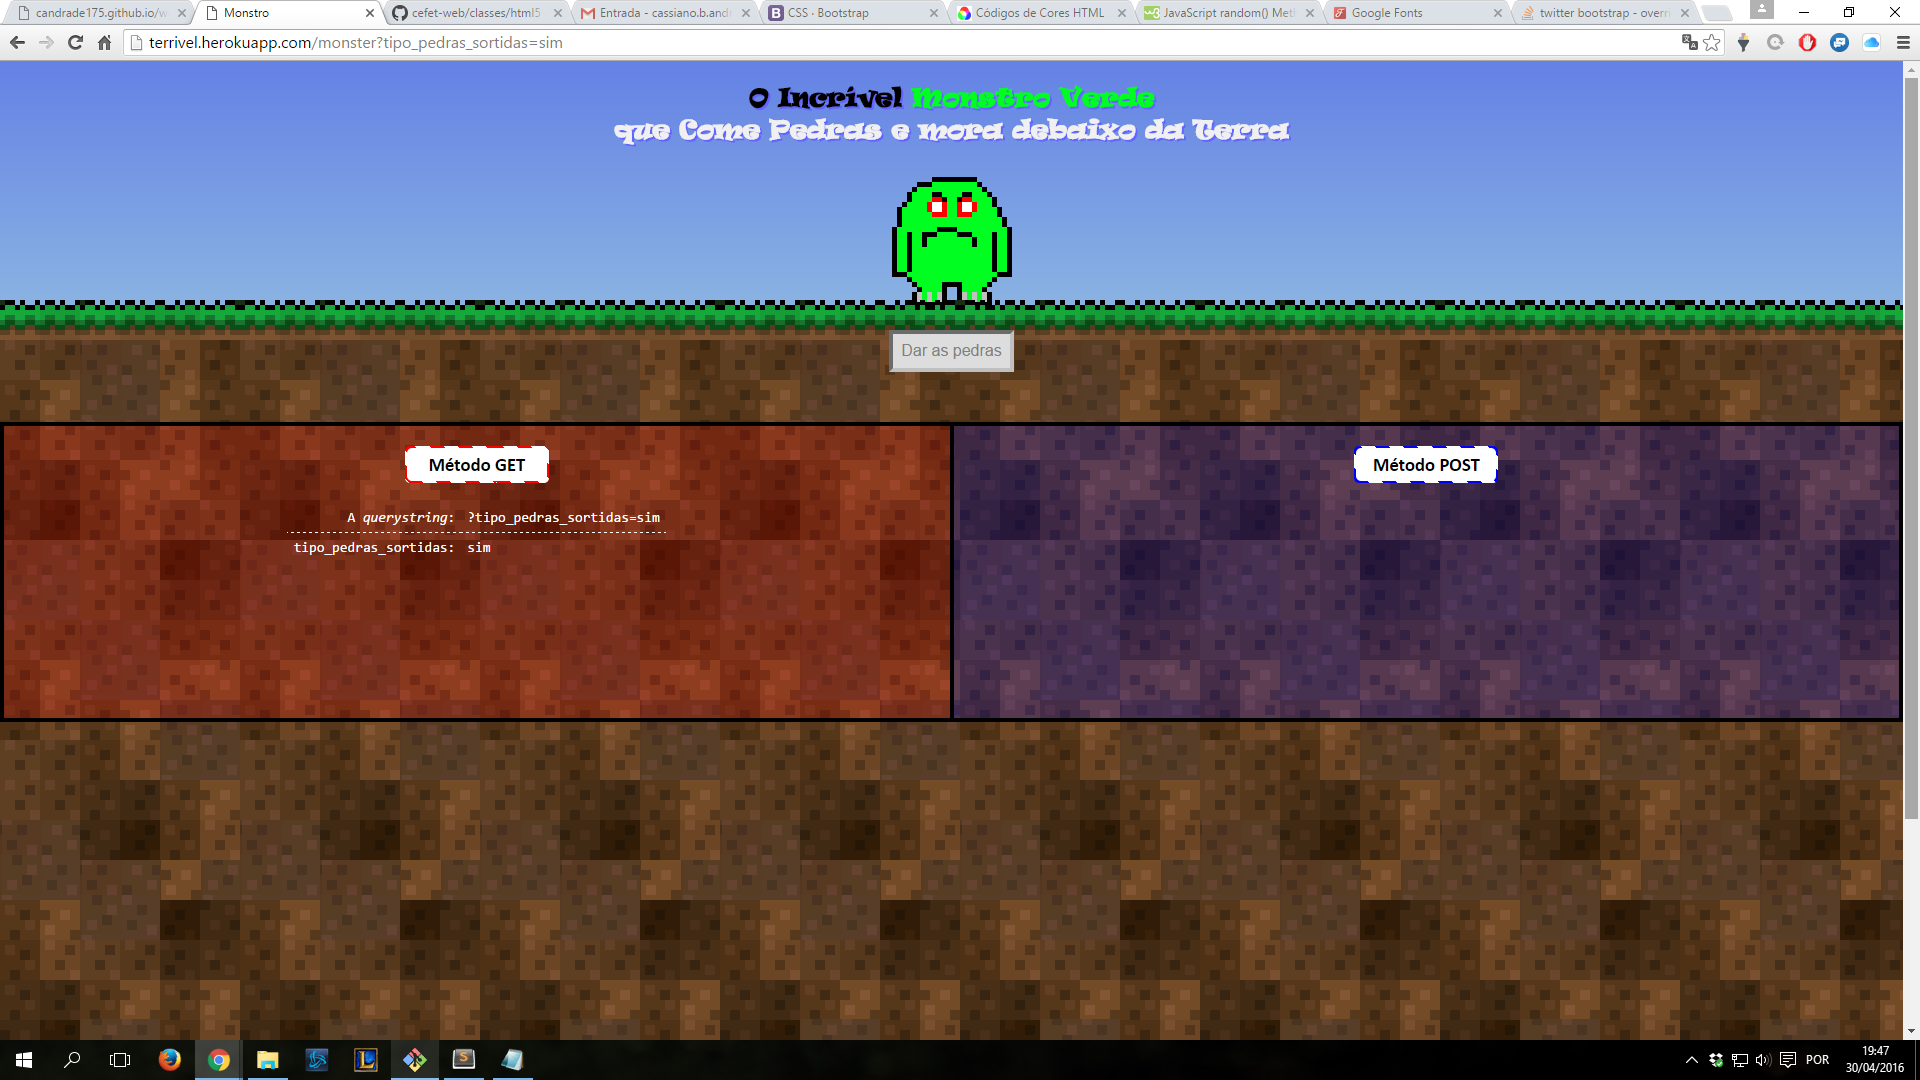
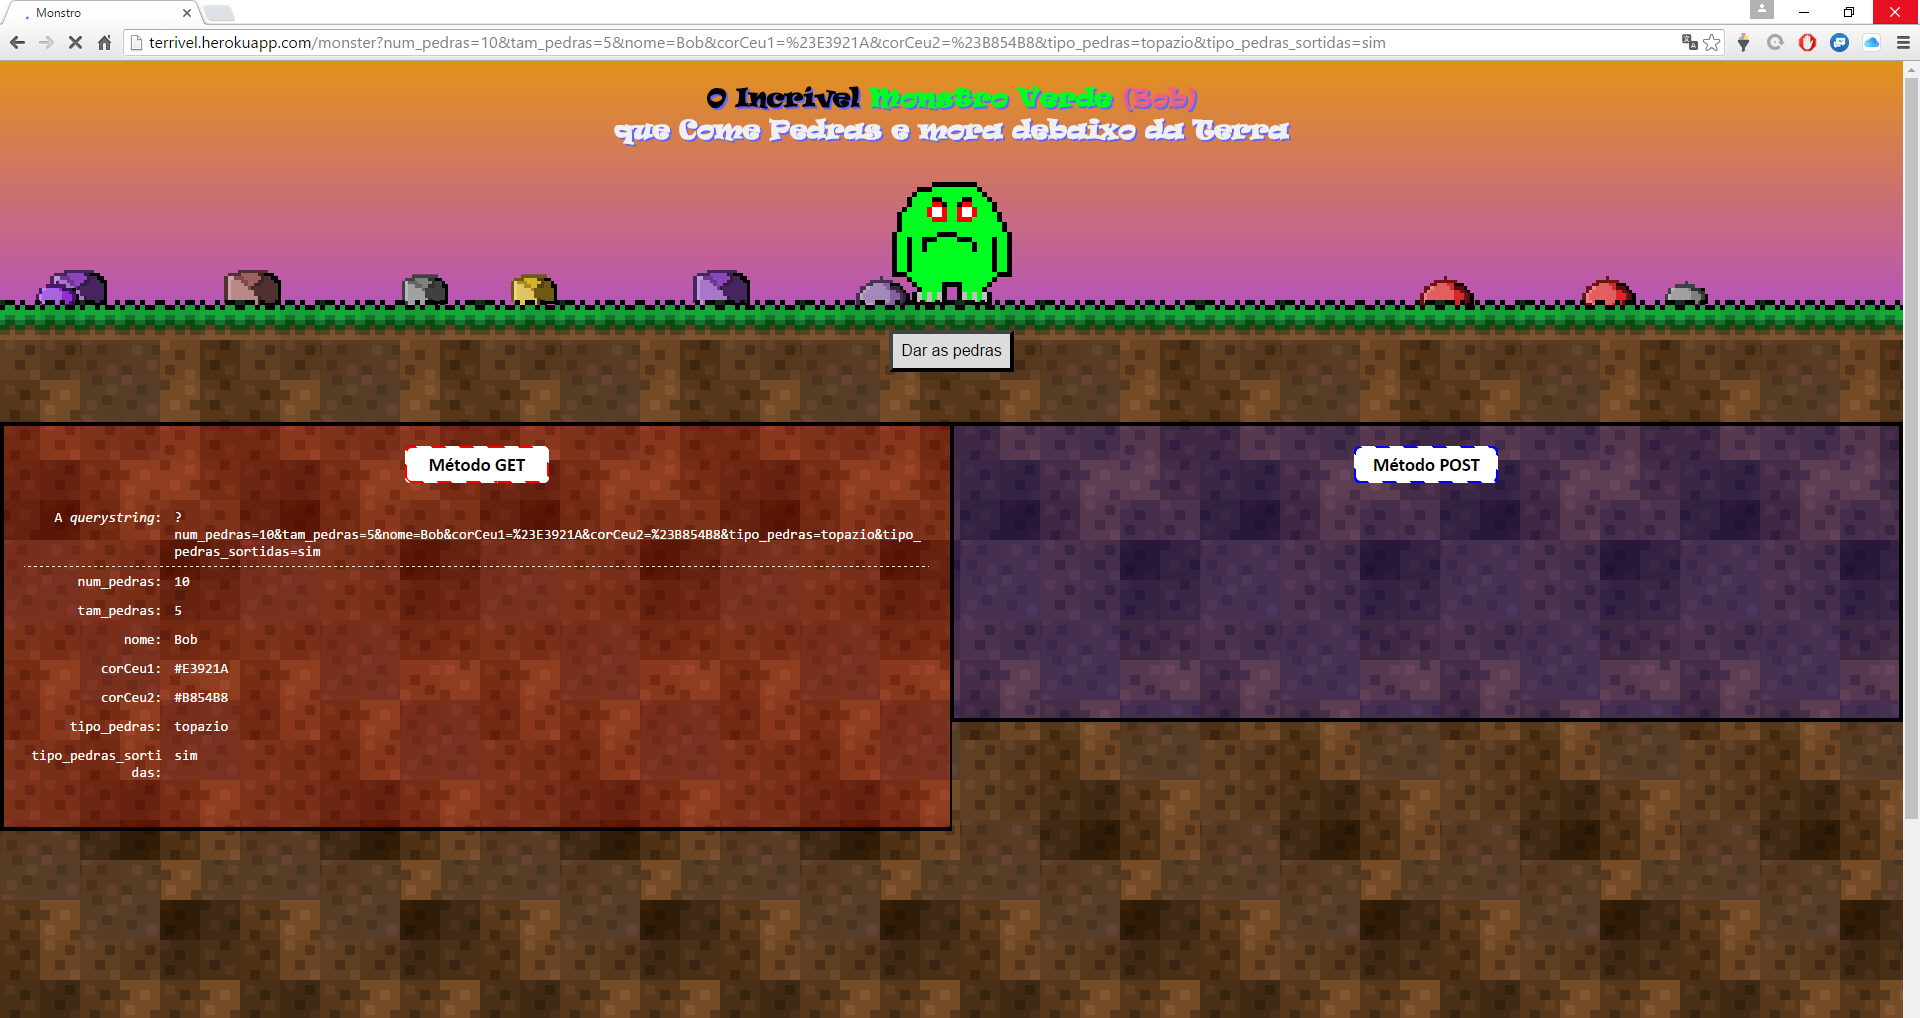
Consertando erro da cláusula "name"

diff --git a/www/templates/home/home.html b/www/templates/home/home.html
@@ -38,9 +38,9 @@
 
 		<!-- Número de Pedras -->
 		<div class="form-group">
-			<label type="numero" for="num_pedras" name= "num_pedras" class="col-sm-2 control-label has-feedback"> Nº Pedras </label>
+			<label type="numero" for="num_pedras" class="col-sm-2 control-label has-feedback"> Nº Pedras </label>
 			<div class="col-sm-10"> 
-				<input class="form-control" id="num_pedras" placeholder="Número de Pedras" required type="numero"> 
+				<input class="form-control" id="num_pedras" name="num_pedras" placeholder="Número de Pedras" required type="numero"> 
 				<span class="glyphicon form-control-feedback" id="iconeErroNumPedras" aria-hidden="true"></span>
 			</div>
 
@@ -48,25 +48,25 @@
 
 		<!-- Tamanho das Pedras -->
 		<div class="form-group">
-			<label type="numero" for="tam_pedras" name="tam_pedras" class="col-sm-2 control-label"> Tamanho </label>
+			<label type="numero" for="tam_pedras" class="col-sm-2 control-label"> Tamanho </label>
 
-			<div class="col-sm-10"> <input id="tam_pedras" max="7" min="1" step="0.5" required type="number" value="3"> </div>
+			<div class="col-sm-10"> <input id="tam_pedras" max="7" min="1" name="tam_pedras" step="0.5" required type="number" value="3"> </div>
 		</div>
 
 		<!-- Nome do Monstro -->
 		<div class="form-group">
 			<label type="nome" for="nome" name="nome" class="col-sm-2 control-label"> Nome </label>
 			<div class="col-sm-10"> 
-				<input type="nome" class="form-control" id="nome" placeholder="Nome para o Incrível Monstro Verde que Come Pedras e Mora Debaixo da Terra" required> 
+				<input class="form-control" id="nome" name="nome" placeholder="Nome para o Incrível Monstro Verde que Come Pedras e Mora Debaixo da Terra" type="nome" required> 
 				<span class="glyphicon form-control-feedback" id="iconeErroNome" aria-hidden="true"></span>
 			</div>
 		</div>
 
 		<!-- Primeira Cor do Céu -->
 		<div class="form-group">
-			<label type="cor" for="corCeu1" nome="corCeu1" class="col-sm-2 control-label"> Primeira cor </label>
+			<label type="cor" for="corCeu1" class="col-sm-2 control-label"> Primeira cor </label>
 			<div class="col-sm-10">
-			    <select class="form-control" id="corCeu1">
+			    <select class="form-control" id="corCeu1" name="corCeu1">
 			    	<option value="#0D15F1"> Azul </option>
 					<option value="#E6F10D"> Amarelo </option>
 					<option value="#9065AC"> Indigo </option>
@@ -80,9 +80,9 @@
 
 		<!-- Segunda Cor do Céu -->
 		<div class="form-group">
-			<label type="cor" for="corCeu2" name="corCeu2" class="col-sm-2 control-label"> Segunda cor </label>
+			<label type="cor" for="corCeu2" class="col-sm-2 control-label"> Segunda cor </label>
 			<div class="col-sm-10">
-			    <select class="form-control" id="corCeu2">
+			    <select class="form-control" id="corCeu2" name="corCeu2">
 			    	<option value="#0D15F1"> Azul </option>
 					<option value="#E6F10D"> Amarelo </option>
 					<option value="#9065AC"> Indigo </option>
@@ -96,14 +96,14 @@
 
 		<!-- Tipo de Pedra -->
 		<div class="form-group">
-		    <label type="tipo" for="tipo_pedras" name="tipo_pedras" class="col-sm-2 control-label"> Tipo </label>
+		    <label type="tipo" for="tipo_pedras" class="col-sm-2 control-label"> Tipo </label>
 
 		    <div class="col-sm-10">
-			    <select class="form-control" id="tipo_pedras">
-			    	<option> Marroada </option>
-					<option> Ametista </option>
-					<option> Topazio </option>
-					<option> Espinela </option>
+			    <select class="form-control" id="tipo_pedras" name="tipo_pedras">
+			    	<option value="marroada"> Marroada </option>
+					<option value="ametista"> Ametista </option>
+					<option value="topazio"> Topazio </option>
+					<option value="espinela"> Espinela </option>
 			    </select>
 		    </div>
 	  	</div>
